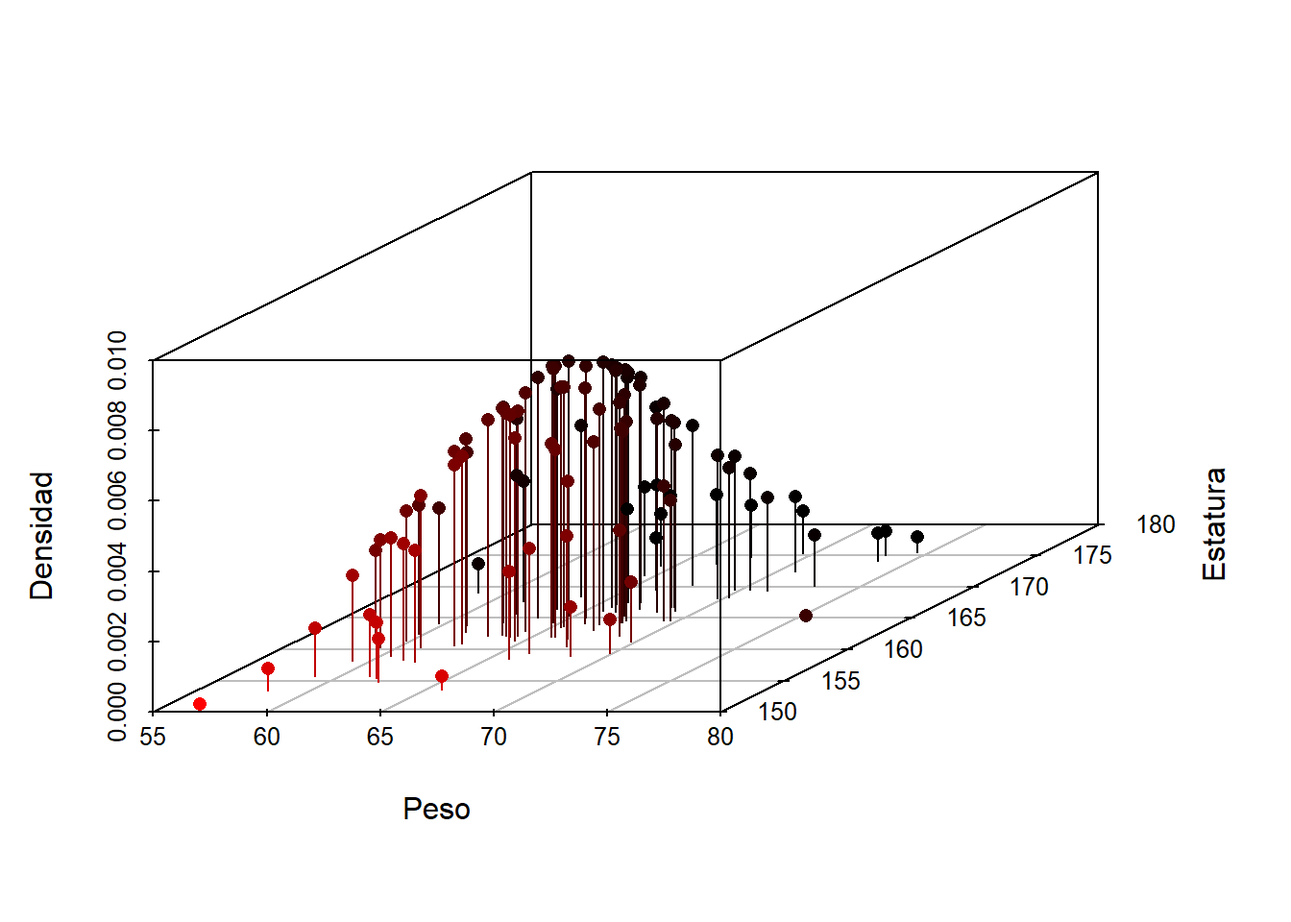
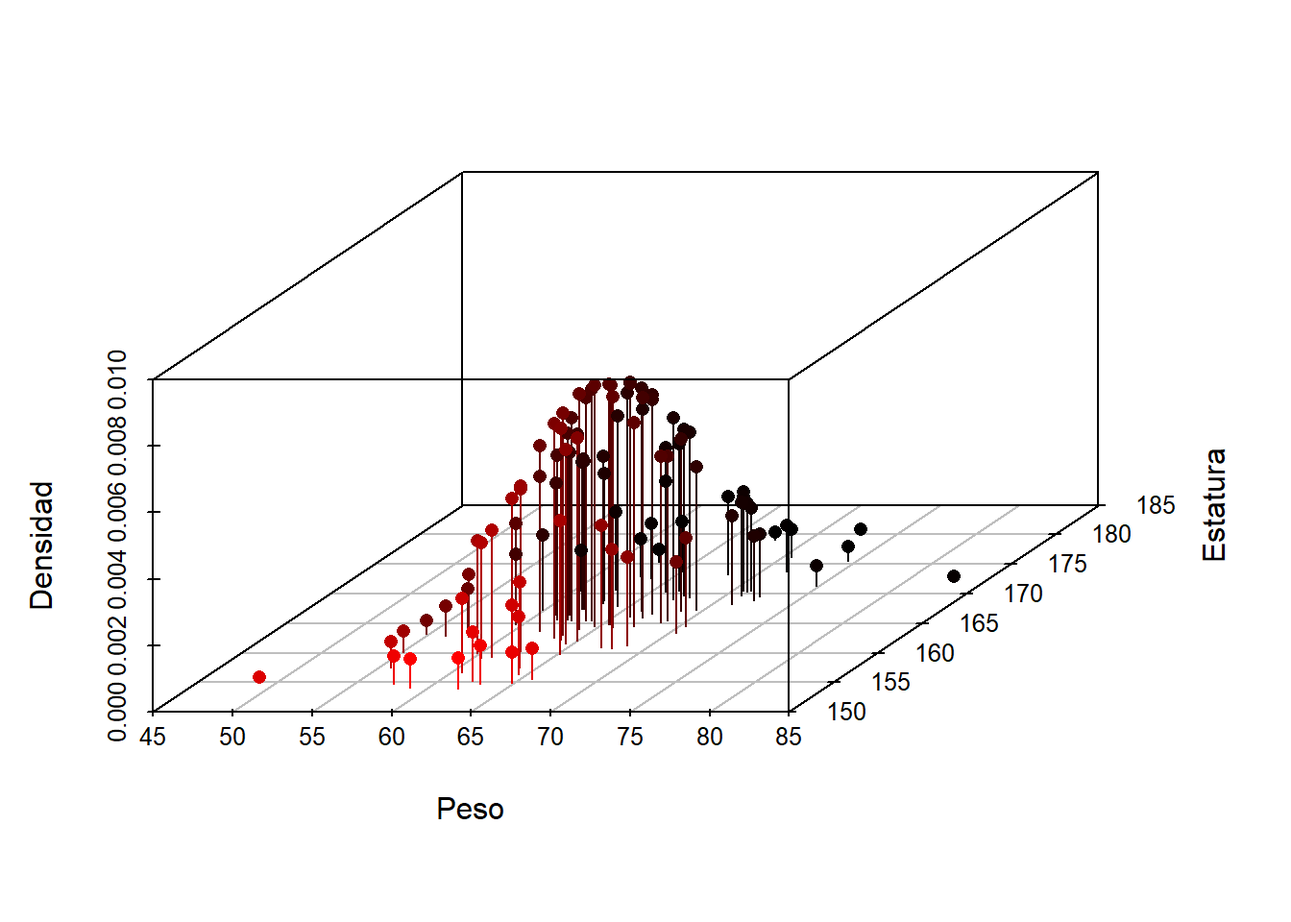
Cambios menores

diff --git a/docs/normalmulti.html b/docs/normalmulti.html
@@ -768,8 +768,8 @@ Figure 23.2: Diagrama de dispersión para datos simulados de una normal bivariad
 <span id="cb8-6"><a href="normalmulti.html#cb8-6" aria-hidden="true" tabindex="-1"></a><span class="fu">plot_ly</span>(<span class="at">x=</span><span class="sc">~</span>datos[,<span class="dv">1</span>], <span class="at">y=</span><span class="sc">~</span>datos[,<span class="dv">2</span>], <span class="at">z=</span><span class="sc">~</span>density, </span>
 <span id="cb8-7"><a href="normalmulti.html#cb8-7" aria-hidden="true" tabindex="-1"></a>        <span class="at">type =</span> <span class="st">&quot;scatter3d&quot;</span>, <span class="at">color=</span>density)</span></code></pre></div>
 <div class="figure"><span style="display:block;" id="fig:simul2plotly"></span>
-<div id="htmlwidget-cf63b91c2a0518847878" style="width:672px;height:480px;" class="plotly html-widget"></div>
-<script type="application/json" data-for="htmlwidget-cf63b91c2a0518847878">{"x":{"visdat":{"15d0212323f4":["function () ","plotlyVisDat"]},"cur_data":"15d0212323f4","attrs":{"15d0212323f4":{"x":{},"y":{},"z":{},"color":[0.00198100215959531,0.00670324887609876,0.00078005849572772,0.0018177303693015,0.00534005196180616,0.00574118791975782,0.000162365809118524,0.00253490173595076,0.00628735440714785,0.00533103126848121,0.00492430012189535,0.00721226821728599,0.00686071020138313,0.00258954527110739,0.00681778315201375,0.00329138515371219,0.00715461926622162,0.00300240943108903,0.00670540751871609,0.00263786574973771,0.00147378610840702,0.00624825061862073,0.00296744647453109,0.00471945465550465,0.00367446763278653,0.00552832598214821,0.00137605212401851,0.00240749977310082,0.00317262549887943,0.0063655176914136,0.00513061350043037,0.00575400696762089,0.00342994741290418,0.0053244488658585,0.00535147014550437,0.00610634124419729,0.00635402441198085,0.00486644973069654,0.00305716041142624,0.00721450025958614,0.00335617731582844,0.00139525806682305,0.00715212918947712,0.00407386795787336,0.00706802832436903,0.00095393666378019,0.00341709925683737,0.00684056613631894,0.00365158572805313,0.00452066507996122,0.00145754230385146,0.00542308293049627,0.00326405439788434,0.0068848920999572,0.00380446753913564,0.00173327276681416,0.00609943962144527,0.00249750462544003,0.00548784904492543,0.00313358949655201,0.00370856010798385,0.00630343121608872,0.00148492936484452,0.00123179069341149,0.00642670199560877,0.00547309689281027,0.00651261726277757,0.000676419059105887,0.00721492988591587,0.00530748865118242,0.00247804790569399,0.000424426468394256,0.00682822780424697,0.00518333306250636,0.00668396001127169,0.00449645435950209,0.00615828853417076,0.00614093553383821,0.00169766962606344,0.00552490235975436,0.00677619729483128,0.00383179421176395,0.00548270125480508,0.0063339549016584,0.00330798130218028,0.00365683675209853,0.00207721592629136,0.00633849075848144,0.00563122014535252,0.00523915545642096,0.00432949431411798,0.000387739645496554,0.000422196445200629,0.000625462309122013,0.00211391551255857,0.000167013365564234,0.000810740312215874,0.00640228099712518,0.00157810491731917,0.00119291316654186],"alpha_stroke":1,"sizes":[10,100],"spans":[1,20],"type":"scatter3d"}},"layout":{"margin":{"b":40,"l":60,"t":25,"r":10},"scene":{"xaxis":{"title":"datos[, 1]"},"yaxis":{"title":"datos[, 2]"},"zaxis":{"title":"density"}},"hovermode":"closest","showlegend":false,"legend":{"yanchor":"top","y":0.5}},"source":"A","config":{"modeBarButtonsToAdd":["hoverclosest","hovercompare"],"showSendToCloud":false},"data":[{"x":[66.7371029656621,66.3718375754789,73.5209034359552,63.571688317461,61.859387456843,68.0559451668225,56.8579908797405,64.9524880648963,67.2587512359582,66.0898738973799,61.1491839775695,64.7549036736386,66.522757143659,58.5780219300118,65.5458527894391,70.4403296324467,64.3264391660642,68.8372622452488,65.8656967992985,71.3094094728843,64.38531800285,63.6323433118068,66.3840006713154,69.0465786861524,70.2108414496008,62.3358192789831,59.01324171067,59.20649072531,62.1196684371505,64.2993256670651,62.3786187280264,64.586381285543,69.727476966435,62.5654861289274,67.1292613117694,62.4541195695742,67.3150345019273,63.6411464808334,59.2811135306909,64.6879745448268,60.4889046549966,68.466597449957,65.7293184705557,69.7899594506641,65.8426501895912,69.9078561011232,61.491039032236,63.6081233554419,59.7635413259953,67.50208310771,72.9905256337031,67.7547971917928,59.6880353206941,65.8930146586525,69.7831908330159,61.3652421608137,66.8956059868539,64.5049341850829,68.2855911120649,67.392509292699,59.8700743885103,64.0316495588598,67.6623735609949,62.2756340173505,63.5343729843606,61.6417323897504,66.1910506181664,73.3661164105365,64.4389462739771,68.5448398832069,65.9878851004146,63.0693638650789,65.4382555212085,66.3394342294782,66.1973967438476,66.8076126410104,63.0248390473822,67.2849602226235,69.8539320142073,67.652290540567,64.2354517087391,69.3761544348027,65.9136681281488,65.9749356859293,61.4348214195236,61.4503926180873,65.1271177773179,63.818052616092,67.7272594403095,68.617854827757,61.1163201137562,65.7349287980984,74.4849651529783,58.2039779642437,70.8202242317854,75.7688095907935,58.7088284618683,66.7598306375536,61.8322585802741,69.5559866162477],"y":[173.61548965567,167.037921744678,174.157201994372,172.212393985024,161.546486910319,167.052945557945,150.386439093724,172.078642564637,165.315350814559,161.932043942147,163.83920470383,165.433502563371,165.946335895877,161.199812965832,163.647209834463,169.582347733346,165.11537330304,162.136535357725,167.204687221548,169.420180712597,173.380021026533,166.490061893228,159.386229029316,166.176805454535,168.292485059092,165.686852302972,155.638968627684,158.241911014705,157.957181643231,162.208567281992,160.646392207221,161.454373627322,164.561517033811,160.862104391998,163.128121341127,164.378567154615,166.48713936694,168.379191657164,160.324154267767,164.315065953704,158.959629524961,158.863636618642,165.002331381666,168.163478919154,166.179197919715,159.425895864281,167.69945726008,165.015171933161,162.520762169281,170.284254228964,170.122768319634,164.287046755726,164.218711242533,166.781537617691,169.537218800266,155.729799190895,164.012976847472,171.862063863537,166.061219011047,160.530558589139,161.317419250433,162.07499638852,174.686755759151,154.774558812999,162.36455377273,162.825811757878,167.54820964178,175.073637530992,164.674598869892,166.758626192189,158.444153044261,175.410835910464,163.571934718373,169.487628436241,164.134799316633,161.622162418648,162.099657672803,164.898297099831,161.229968123697,164.282265248739,162.941717143456,164.621874606761,161.962921892142,167.876495497072,158.294731988259,167.271424406074,172.815837679231,162.134541611736,164.672104039557,166.81394518736,160.260518690419,153.581790716324,175.565170075892,153.375169507214,172.515570505862,164.450605784092,169.135186813564,167.514688154407,155.436913797878,175.362568794833],"z":[0.00198100215959531,0.00670324887609876,0.00078005849572772,0.0018177303693015,0.00534005196180616,0.00574118791975782,0.000162365809118524,0.00253490173595076,0.00628735440714785,0.00533103126848121,0.00492430012189535,0.00721226821728599,0.00686071020138313,0.00258954527110739,0.00681778315201375,0.00329138515371219,0.00715461926622162,0.00300240943108903,0.00670540751871609,0.00263786574973771,0.00147378610840702,0.00624825061862073,0.00296744647453109,0.00471945465550465,0.00367446763278653,0.00552832598214821,0.00137605212401851,0.00240749977310082,0.00317262549887943,0.0063655176914136,0.00513061350043037,0.00575400696762089,0.00342994741290418,0.0053244488658585,0.00535147014550437,0.00610634124419729,0.00635402441198085,0.00486644973069654,0.00305716041142624,0.00721450025958614,0.00335617731582844,0.00139525806682305,0.00715212918947712,0.00407386795787336,0.00706802832436903,0.00095393666378019,0.00341709925683737,0.00684056613631894,0.00365158572805313,0.00452066507996122,0.00145754230385146,0.00542308293049627,0.00326405439788434,0.0068848920999572,0.00380446753913564,0.00173327276681416,0.00609943962144527,0.00249750462544003,0.00548784904492543,0.00313358949655201,0.00370856010798385,0.00630343121608872,0.00148492936484452,0.00123179069341149,0.00642670199560877,0.00547309689281027,0.00651261726277757,0.000676419059105887,0.00721492988591587,0.00530748865118242,0.00247804790569399,0.000424426468394256,0.00682822780424697,0.00518333306250636,0.00668396001127169,0.00449645435950209,0.00615828853417076,0.00614093553383821,0.00169766962606344,0.00552490235975436,0.00677619729483128,0.00383179421176395,0.00548270125480508,0.0063339549016584,0.00330798130218028,0.00365683675209853,0.00207721592629136,0.00633849075848144,0.00563122014535252,0.00523915545642096,0.00432949431411798,0.000387739645496554,0.000422196445200629,0.000625462309122013,0.00211391551255857,0.000167013365564234,0.000810740312215874,0.00640228099712518,0.00157810491731917,0.00119291316654186],"type":"scatter3d","mode":"markers","marker":{"colorbar":{"title":"","ticklen":2},"cmin":0.000162365809118524,"cmax":0.00721492988591587,"colorscale":[["0","rgba(68,1,84,1)"],["0.0416666666666667","rgba(70,19,97,1)"],["0.0833333333333333","rgba(72,32,111,1)"],["0.125","rgba(71,45,122,1)"],["0.166666666666667","rgba(68,58,128,1)"],["0.208333333333333","rgba(64,70,135,1)"],["0.25","rgba(60,82,138,1)"],["0.291666666666667","rgba(56,93,140,1)"],["0.333333333333333","rgba(49,104,142,1)"],["0.375","rgba(46,114,142,1)"],["0.416666666666667","rgba(42,123,142,1)"],["0.458333333333333","rgba(38,133,141,1)"],["0.5","rgba(37,144,140,1)"],["0.541666666666667","rgba(33,154,138,1)"],["0.583333333333333","rgba(39,164,133,1)"],["0.625","rgba(47,174,127,1)"],["0.666666666666667","rgba(53,183,121,1)"],["0.708333333333333","rgba(79,191,110,1)"],["0.75","rgba(98,199,98,1)"],["0.791666666666667","rgba(119,207,85,1)"],["0.833333333333333","rgba(147,214,70,1)"],["0.875","rgba(172,220,52,1)"],["0.916666666666667","rgba(199,225,42,1)"],["0.958333333333333","rgba(226,228,40,1)"],["1","rgba(253,231,37,1)"]],"showscale":false,"color":[0.00198100215959531,0.00670324887609876,0.00078005849572772,0.0018177303693015,0.00534005196180616,0.00574118791975782,0.000162365809118524,0.00253490173595076,0.00628735440714785,0.00533103126848121,0.00492430012189535,0.00721226821728599,0.00686071020138313,0.00258954527110739,0.00681778315201375,0.00329138515371219,0.00715461926622162,0.00300240943108903,0.00670540751871609,0.00263786574973771,0.00147378610840702,0.00624825061862073,0.00296744647453109,0.00471945465550465,0.00367446763278653,0.00552832598214821,0.00137605212401851,0.00240749977310082,0.00317262549887943,0.0063655176914136,0.00513061350043037,0.00575400696762089,0.00342994741290418,0.0053244488658585,0.00535147014550437,0.00610634124419729,0.00635402441198085,0.00486644973069654,0.00305716041142624,0.00721450025958614,0.00335617731582844,0.00139525806682305,0.00715212918947712,0.00407386795787336,0.00706802832436903,0.00095393666378019,0.00341709925683737,0.00684056613631894,0.00365158572805313,0.00452066507996122,0.00145754230385146,0.00542308293049627,0.00326405439788434,0.0068848920999572,0.00380446753913564,0.00173327276681416,0.00609943962144527,0.00249750462544003,0.00548784904492543,0.00313358949655201,0.00370856010798385,0.00630343121608872,0.00148492936484452,0.00123179069341149,0.00642670199560877,0.00547309689281027,0.00651261726277757,0.000676419059105887,0.00721492988591587,0.00530748865118242,0.00247804790569399,0.000424426468394256,0.00682822780424697,0.00518333306250636,0.00668396001127169,0.00449645435950209,0.00615828853417076,0.00614093553383821,0.00169766962606344,0.00552490235975436,0.00677619729483128,0.00383179421176395,0.00548270125480508,0.0063339549016584,0.00330798130218028,0.00365683675209853,0.00207721592629136,0.00633849075848144,0.00563122014535252,0.00523915545642096,0.00432949431411798,0.000387739645496554,0.000422196445200629,0.000625462309122013,0.00211391551255857,0.000167013365564234,0.000810740312215874,0.00640228099712518,0.00157810491731917,0.00119291316654186],"line":{"colorbar":{"title":"","ticklen":2},"cmin":0.000162365809118524,"cmax":0.00721492988591587,"colorscale":[["0","rgba(68,1,84,1)"],["0.0416666666666667","rgba(70,19,97,1)"],["0.0833333333333333","rgba(72,32,111,1)"],["0.125","rgba(71,45,122,1)"],["0.166666666666667","rgba(68,58,128,1)"],["0.208333333333333","rgba(64,70,135,1)"],["0.25","rgba(60,82,138,1)"],["0.291666666666667","rgba(56,93,140,1)"],["0.333333333333333","rgba(49,104,142,1)"],["0.375","rgba(46,114,142,1)"],["0.416666666666667","rgba(42,123,142,1)"],["0.458333333333333","rgba(38,133,141,1)"],["0.5","rgba(37,144,140,1)"],["0.541666666666667","rgba(33,154,138,1)"],["0.583333333333333","rgba(39,164,133,1)"],["0.625","rgba(47,174,127,1)"],["0.666666666666667","rgba(53,183,121,1)"],["0.708333333333333","rgba(79,191,110,1)"],["0.75","rgba(98,199,98,1)"],["0.791666666666667","rgba(119,207,85,1)"],["0.833333333333333","rgba(147,214,70,1)"],["0.875","rgba(172,220,52,1)"],["0.916666666666667","rgba(199,225,42,1)"],["0.958333333333333","rgba(226,228,40,1)"],["1","rgba(253,231,37,1)"]],"showscale":false,"color":[0.00198100215959531,0.00670324887609876,0.00078005849572772,0.0018177303693015,0.00534005196180616,0.00574118791975782,0.000162365809118524,0.00253490173595076,0.00628735440714785,0.00533103126848121,0.00492430012189535,0.00721226821728599,0.00686071020138313,0.00258954527110739,0.00681778315201375,0.00329138515371219,0.00715461926622162,0.00300240943108903,0.00670540751871609,0.00263786574973771,0.00147378610840702,0.00624825061862073,0.00296744647453109,0.00471945465550465,0.00367446763278653,0.00552832598214821,0.00137605212401851,0.00240749977310082,0.00317262549887943,0.0063655176914136,0.00513061350043037,0.00575400696762089,0.00342994741290418,0.0053244488658585,0.00535147014550437,0.00610634124419729,0.00635402441198085,0.00486644973069654,0.00305716041142624,0.00721450025958614,0.00335617731582844,0.00139525806682305,0.00715212918947712,0.00407386795787336,0.00706802832436903,0.00095393666378019,0.00341709925683737,0.00684056613631894,0.00365158572805313,0.00452066507996122,0.00145754230385146,0.00542308293049627,0.00326405439788434,0.0068848920999572,0.00380446753913564,0.00173327276681416,0.00609943962144527,0.00249750462544003,0.00548784904492543,0.00313358949655201,0.00370856010798385,0.00630343121608872,0.00148492936484452,0.00123179069341149,0.00642670199560877,0.00547309689281027,0.00651261726277757,0.000676419059105887,0.00721492988591587,0.00530748865118242,0.00247804790569399,0.000424426468394256,0.00682822780424697,0.00518333306250636,0.00668396001127169,0.00449645435950209,0.00615828853417076,0.00614093553383821,0.00169766962606344,0.00552490235975436,0.00677619729483128,0.00383179421176395,0.00548270125480508,0.0063339549016584,0.00330798130218028,0.00365683675209853,0.00207721592629136,0.00633849075848144,0.00563122014535252,0.00523915545642096,0.00432949431411798,0.000387739645496554,0.000422196445200629,0.000625462309122013,0.00211391551255857,0.000167013365564234,0.000810740312215874,0.00640228099712518,0.00157810491731917,0.00119291316654186]}},"frame":null},{"x":[56.8579908797405,75.7688095907935],"y":[150.386439093724,175.565170075892],"type":"scatter3d","mode":"markers","opacity":0,"hoverinfo":"none","showlegend":false,"marker":{"colorbar":{"title":"","ticklen":2,"len":0.5,"lenmode":"fraction","y":1,"yanchor":"top"},"cmin":0.000162365809118524,"cmax":0.00721492988591587,"colorscale":[["0","rgba(68,1,84,1)"],["0.0416666666666667","rgba(70,19,97,1)"],["0.0833333333333333","rgba(72,32,111,1)"],["0.125","rgba(71,45,122,1)"],["0.166666666666667","rgba(68,58,128,1)"],["0.208333333333333","rgba(64,70,135,1)"],["0.25","rgba(60,82,138,1)"],["0.291666666666667","rgba(56,93,140,1)"],["0.333333333333333","rgba(49,104,142,1)"],["0.375","rgba(46,114,142,1)"],["0.416666666666667","rgba(42,123,142,1)"],["0.458333333333333","rgba(38,133,141,1)"],["0.5","rgba(37,144,140,1)"],["0.541666666666667","rgba(33,154,138,1)"],["0.583333333333333","rgba(39,164,133,1)"],["0.625","rgba(47,174,127,1)"],["0.666666666666667","rgba(53,183,121,1)"],["0.708333333333333","rgba(79,191,110,1)"],["0.75","rgba(98,199,98,1)"],["0.791666666666667","rgba(119,207,85,1)"],["0.833333333333333","rgba(147,214,70,1)"],["0.875","rgba(172,220,52,1)"],["0.916666666666667","rgba(199,225,42,1)"],["0.958333333333333","rgba(226,228,40,1)"],["1","rgba(253,231,37,1)"]],"showscale":true,"color":[0.000162365809118524,0.00721492988591587],"line":{"color":"rgba(255,127,14,1)"}},"z":[0.000162365809118524,0.00721492988591587],"frame":null}],"highlight":{"on":"plotly_click","persistent":false,"dynamic":false,"selectize":false,"opacityDim":0.2,"selected":{"opacity":1},"debounce":0},"shinyEvents":["plotly_hover","plotly_click","plotly_selected","plotly_relayout","plotly_brushed","plotly_brushing","plotly_clickannotation","plotly_doubleclick","plotly_deselect","plotly_afterplot","plotly_sunburstclick"],"base_url":"https://plot.ly"},"evals":[],"jsHooks":[]}</script>
+<div id="htmlwidget-1f42dd01526141be2681" style="width:672px;height:480px;" class="plotly html-widget"></div>
+<script type="application/json" data-for="htmlwidget-1f42dd01526141be2681">{"x":{"visdat":{"d3a08527a5":["function () ","plotlyVisDat"]},"cur_data":"d3a08527a5","attrs":{"d3a08527a5":{"x":{},"y":{},"z":{},"color":[0.00546217021270723,0.00607789726198904,0.00279256246986514,0.00636587228711366,0.00724039765463859,0.0060953742014343,0.00440137740500976,0.000930734596809839,0.00250471393457,0.00494270208624596,0.00305693709202033,0.00112488689888025,0.00643824792055218,0.000911584786146963,0.00499927213402682,0.00444029874808686,0.000408635591592065,0.000622817733455849,0.00274032307937844,0.00429551144557462,0.00089242843000141,0.00495337684693452,0.00557823444113667,0.00569892609584463,0.00462984307451341,0.00691635923475687,0.00346462913545307,0.00669526253349871,0.000866307476015216,0.00432564775931662,0.00202897515323981,0.00662020423442792,0.00146962355015631,0.0014051398708879,0.00720991809757628,0.00091620390394632,0.00339417181880318,0.00668546228093002,0.00400552769609694,0.00114302619120504,0.0071883895568109,0.00515342599756363,0.00650104388565882,0.0025681279466696,0.00544994331197537,0.00583349368283567,0.00702787703015439,0.00707543871011018,0.000378705654213693,0.00379757792719819,0.00192964987160271,0.000419199771132879,0.00648577265709436,0.00558771478255134,0.00173412247533849,0.00488866702692737,0.000617484448475716,0.00367423725149674,0.00125580569258257,0.00266569557812275,0.0015203690094742,0.00579835050911775,0.00489447838870921,2.83323091515863e-06,0.00267024209362055,0.000832756549511984,0.00232969666735585,0.00188647857690451,0.000822662499509336,0.00697653130874853,0.0016456908959496,0.00499796206993036,0.00396127721851957,0.00188966632575818,0.00443405234707083,0.00381877326857832,0.00296990458800643,0.00442114386818082,0.00703874961861027,0.00283797761568941,0.000776158363359123,7.56336383967331e-06,0.0061030211438635,0.00234896590761446,0.00643883311542329,0.00264911106195833,0.00222108981176104,0.000138027937595548,0.00188454537553339,0.00214014196416957,0.00121556122625113,0.00224870534182202,0.00494704988190611,0.00265313345227694,0.0031007065606604,0.00441684692023712,0.000230105507338286,0.00492598222366563,0.00449824162383372,0.00670452152440197],"alpha_stroke":1,"sizes":[10,100],"spans":[1,20],"type":"scatter3d"}},"layout":{"margin":{"b":40,"l":60,"t":25,"r":10},"scene":{"xaxis":{"title":"datos[, 1]"},"yaxis":{"title":"datos[, 2]"},"zaxis":{"title":"density"}},"hovermode":"closest","showlegend":false,"legend":{"yanchor":"top","y":0.5}},"source":"A","config":{"modeBarButtonsToAdd":["hoverclosest","hovercompare"],"showSendToCloud":false},"data":[{"x":[62.6051417381313,64.9788884952472,71.0550535677377,63.889072876523,64.6720500792113,62.7897696862499,61.0003204417405,65.7612342549474,71.27221827892,61.7369219646259,59.6468448155617,62.8737781374451,63.2074651131474,61.9800073601354,68.5197034113676,62.3832158309889,54.8412278583719,55.1009064930199,69.9518332585455,69.5823139018073,56.1963821260203,67.9573106554606,61.7666588842054,64.275145406791,62.0057869690378,65.9262889230262,60.5753156470894,63.6072098726036,58.8870562124352,65.8985812284817,63.8622852681351,66.932238612818,62.1944402810293,71.7036231941335,65.4514481608617,64.8116498695622,59.8988125424784,63.5817590546412,65.1707493020582,62.9604748775575,65.5400930808248,68.7111261033005,65.1557111139717,63.9273601221439,67.1232108383264,64.5305766501999,66.0771001856085,64.0323811924809,62.7039291371797,62.8852504897437,72.2840140205643,74.5207366265766,66.875418160857,62.3855161410153,64.4268432744224,62.4494756396561,74.9042876416899,67.1267002094492,57.1133491609679,71.329182287784,65.0778998404695,65.4904768624984,62.103903150994,82.6447337623402,68.559050634474,70.6106573195405,68.2605603997374,57.8116937762845,57.4709904665575,64.0358313039925,63.7424504942664,67.5177701754475,61.2332341702647,72.3304001253368,63.105735540303,61.1943402880488,67.8581375358977,62.3119135678024,66.0405539167729,70.7484567742991,55.8065063716811,48.4248415930235,67.1650470196022,62.6514896317033,67.1712849603183,71.0858735239271,60.6544852014415,72.8035317297338,58.8761308575596,70.5091564222669,60.5787058953426,59.9382993780394,62.3152712091935,70.4580525793262,65.2828057519706,66.7027083146066,67.9863420420199,68.702669418479,62.3698380001005,66.2134014706296],"y":[166.298172643394,162.05730572228,169.722695312717,162.176194136461,164.537390116225,165.398161961492,165.012450341626,155.530335799251,170.435636042321,165.602044396048,164.738104726385,172.99487087034,162.605181074932,153.929038774671,165.170948554649,167.488798391804,163.196770400738,160.163914472169,171.892995492511,167.250685594611,162.928519188451,169.440529917698,163.647920004616,167.924949872357,160.053012250519,164.337212680653,159.092279727036,165.51258982508,154.077388479497,170.384567598926,156.654530655456,165.898506681499,155.261369216232,173.679832795397,164.840299654681,154.937266533736,159.884197064712,162.947421611592,159.752528848595,154.732196316315,164.844891289162,167.092331942239,167.39624412005,157.447364846606,169.068987875325,161.53341447362,166.088578283416,164.030564025005,175.366111807466,168.912664399721,168.892941271074,175.540447516964,167.157860623086,165.667757685803,156.422044770503,160.245862891618,171.259106177004,160.946241105425,163.767303597781,168.163953329181,173.700778724711,168.519237252917,166.393899793371,172.913823863309,161.228560615665,176.216337076267,173.258070902924,162.706347412887,154.817191270109,165.404309897887,172.631766280931,169.605213993013,166.407738967871,169.48336377584,168.362684673592,159.231444434496,160.817669385503,167.418159337266,166.086909339349,170.506805933657,157.502339955248,155.825657001249,164.523145309917,170.602136309075,166.621888955253,170.351417996905,156.762074602548,180.107180592065,166.078553304677,163.313673875996,170.459804885431,167.269580829218,160.389467883222,164.449043409044,171.537869127659,170.454367104829,179.081573984821,165.539867468697,167.390641955043,167.126322843818],"z":[0.00546217021270723,0.00607789726198904,0.00279256246986514,0.00636587228711366,0.00724039765463859,0.0060953742014343,0.00440137740500976,0.000930734596809839,0.00250471393457,0.00494270208624596,0.00305693709202033,0.00112488689888025,0.00643824792055218,0.000911584786146963,0.00499927213402682,0.00444029874808686,0.000408635591592065,0.000622817733455849,0.00274032307937844,0.00429551144557462,0.00089242843000141,0.00495337684693452,0.00557823444113667,0.00569892609584463,0.00462984307451341,0.00691635923475687,0.00346462913545307,0.00669526253349871,0.000866307476015216,0.00432564775931662,0.00202897515323981,0.00662020423442792,0.00146962355015631,0.0014051398708879,0.00720991809757628,0.00091620390394632,0.00339417181880318,0.00668546228093002,0.00400552769609694,0.00114302619120504,0.0071883895568109,0.00515342599756363,0.00650104388565882,0.0025681279466696,0.00544994331197537,0.00583349368283567,0.00702787703015439,0.00707543871011018,0.000378705654213693,0.00379757792719819,0.00192964987160271,0.000419199771132879,0.00648577265709436,0.00558771478255134,0.00173412247533849,0.00488866702692737,0.000617484448475716,0.00367423725149674,0.00125580569258257,0.00266569557812275,0.0015203690094742,0.00579835050911775,0.00489447838870921,2.83323091515863e-06,0.00267024209362055,0.000832756549511984,0.00232969666735585,0.00188647857690451,0.000822662499509336,0.00697653130874853,0.0016456908959496,0.00499796206993036,0.00396127721851957,0.00188966632575818,0.00443405234707083,0.00381877326857832,0.00296990458800643,0.00442114386818082,0.00703874961861027,0.00283797761568941,0.000776158363359123,7.56336383967331e-06,0.0061030211438635,0.00234896590761446,0.00643883311542329,0.00264911106195833,0.00222108981176104,0.000138027937595548,0.00188454537553339,0.00214014196416957,0.00121556122625113,0.00224870534182202,0.00494704988190611,0.00265313345227694,0.0031007065606604,0.00441684692023712,0.000230105507338286,0.00492598222366563,0.00449824162383372,0.00670452152440197],"type":"scatter3d","mode":"markers","marker":{"colorbar":{"title":"","ticklen":2},"cmin":2.83323091515863e-06,"cmax":0.00724039765463859,"colorscale":[["0","rgba(68,1,84,1)"],["0.0416666666666667","rgba(70,19,97,1)"],["0.0833333333333333","rgba(72,32,111,1)"],["0.125","rgba(71,45,122,1)"],["0.166666666666667","rgba(68,58,128,1)"],["0.208333333333333","rgba(64,70,135,1)"],["0.25","rgba(60,82,138,1)"],["0.291666666666667","rgba(56,93,140,1)"],["0.333333333333333","rgba(49,104,142,1)"],["0.375","rgba(46,114,142,1)"],["0.416666666666667","rgba(42,123,142,1)"],["0.458333333333333","rgba(38,133,141,1)"],["0.5","rgba(37,144,140,1)"],["0.541666666666667","rgba(33,154,138,1)"],["0.583333333333333","rgba(39,164,133,1)"],["0.625","rgba(47,174,127,1)"],["0.666666666666667","rgba(53,183,121,1)"],["0.708333333333333","rgba(79,191,110,1)"],["0.75","rgba(98,199,98,1)"],["0.791666666666667","rgba(119,207,85,1)"],["0.833333333333333","rgba(147,214,70,1)"],["0.875","rgba(172,220,52,1)"],["0.916666666666667","rgba(199,225,42,1)"],["0.958333333333333","rgba(226,228,40,1)"],["1","rgba(253,231,37,1)"]],"showscale":false,"color":[0.00546217021270723,0.00607789726198904,0.00279256246986514,0.00636587228711366,0.00724039765463859,0.0060953742014343,0.00440137740500976,0.000930734596809839,0.00250471393457,0.00494270208624596,0.00305693709202033,0.00112488689888025,0.00643824792055218,0.000911584786146963,0.00499927213402682,0.00444029874808686,0.000408635591592065,0.000622817733455849,0.00274032307937844,0.00429551144557462,0.00089242843000141,0.00495337684693452,0.00557823444113667,0.00569892609584463,0.00462984307451341,0.00691635923475687,0.00346462913545307,0.00669526253349871,0.000866307476015216,0.00432564775931662,0.00202897515323981,0.00662020423442792,0.00146962355015631,0.0014051398708879,0.00720991809757628,0.00091620390394632,0.00339417181880318,0.00668546228093002,0.00400552769609694,0.00114302619120504,0.0071883895568109,0.00515342599756363,0.00650104388565882,0.0025681279466696,0.00544994331197537,0.00583349368283567,0.00702787703015439,0.00707543871011018,0.000378705654213693,0.00379757792719819,0.00192964987160271,0.000419199771132879,0.00648577265709436,0.00558771478255134,0.00173412247533849,0.00488866702692737,0.000617484448475716,0.00367423725149674,0.00125580569258257,0.00266569557812275,0.0015203690094742,0.00579835050911775,0.00489447838870921,2.83323091515863e-06,0.00267024209362055,0.000832756549511984,0.00232969666735585,0.00188647857690451,0.000822662499509336,0.00697653130874853,0.0016456908959496,0.00499796206993036,0.00396127721851957,0.00188966632575818,0.00443405234707083,0.00381877326857832,0.00296990458800643,0.00442114386818082,0.00703874961861027,0.00283797761568941,0.000776158363359123,7.56336383967331e-06,0.0061030211438635,0.00234896590761446,0.00643883311542329,0.00264911106195833,0.00222108981176104,0.000138027937595548,0.00188454537553339,0.00214014196416957,0.00121556122625113,0.00224870534182202,0.00494704988190611,0.00265313345227694,0.0031007065606604,0.00441684692023712,0.000230105507338286,0.00492598222366563,0.00449824162383372,0.00670452152440197],"line":{"colorbar":{"title":"","ticklen":2},"cmin":2.83323091515863e-06,"cmax":0.00724039765463859,"colorscale":[["0","rgba(68,1,84,1)"],["0.0416666666666667","rgba(70,19,97,1)"],["0.0833333333333333","rgba(72,32,111,1)"],["0.125","rgba(71,45,122,1)"],["0.166666666666667","rgba(68,58,128,1)"],["0.208333333333333","rgba(64,70,135,1)"],["0.25","rgba(60,82,138,1)"],["0.291666666666667","rgba(56,93,140,1)"],["0.333333333333333","rgba(49,104,142,1)"],["0.375","rgba(46,114,142,1)"],["0.416666666666667","rgba(42,123,142,1)"],["0.458333333333333","rgba(38,133,141,1)"],["0.5","rgba(37,144,140,1)"],["0.541666666666667","rgba(33,154,138,1)"],["0.583333333333333","rgba(39,164,133,1)"],["0.625","rgba(47,174,127,1)"],["0.666666666666667","rgba(53,183,121,1)"],["0.708333333333333","rgba(79,191,110,1)"],["0.75","rgba(98,199,98,1)"],["0.791666666666667","rgba(119,207,85,1)"],["0.833333333333333","rgba(147,214,70,1)"],["0.875","rgba(172,220,52,1)"],["0.916666666666667","rgba(199,225,42,1)"],["0.958333333333333","rgba(226,228,40,1)"],["1","rgba(253,231,37,1)"]],"showscale":false,"color":[0.00546217021270723,0.00607789726198904,0.00279256246986514,0.00636587228711366,0.00724039765463859,0.0060953742014343,0.00440137740500976,0.000930734596809839,0.00250471393457,0.00494270208624596,0.00305693709202033,0.00112488689888025,0.00643824792055218,0.000911584786146963,0.00499927213402682,0.00444029874808686,0.000408635591592065,0.000622817733455849,0.00274032307937844,0.00429551144557462,0.00089242843000141,0.00495337684693452,0.00557823444113667,0.00569892609584463,0.00462984307451341,0.00691635923475687,0.00346462913545307,0.00669526253349871,0.000866307476015216,0.00432564775931662,0.00202897515323981,0.00662020423442792,0.00146962355015631,0.0014051398708879,0.00720991809757628,0.00091620390394632,0.00339417181880318,0.00668546228093002,0.00400552769609694,0.00114302619120504,0.0071883895568109,0.00515342599756363,0.00650104388565882,0.0025681279466696,0.00544994331197537,0.00583349368283567,0.00702787703015439,0.00707543871011018,0.000378705654213693,0.00379757792719819,0.00192964987160271,0.000419199771132879,0.00648577265709436,0.00558771478255134,0.00173412247533849,0.00488866702692737,0.000617484448475716,0.00367423725149674,0.00125580569258257,0.00266569557812275,0.0015203690094742,0.00579835050911775,0.00489447838870921,2.83323091515863e-06,0.00267024209362055,0.000832756549511984,0.00232969666735585,0.00188647857690451,0.000822662499509336,0.00697653130874853,0.0016456908959496,0.00499796206993036,0.00396127721851957,0.00188966632575818,0.00443405234707083,0.00381877326857832,0.00296990458800643,0.00442114386818082,0.00703874961861027,0.00283797761568941,0.000776158363359123,7.56336383967331e-06,0.0061030211438635,0.00234896590761446,0.00643883311542329,0.00264911106195833,0.00222108981176104,0.000138027937595548,0.00188454537553339,0.00214014196416957,0.00121556122625113,0.00224870534182202,0.00494704988190611,0.00265313345227694,0.0031007065606604,0.00441684692023712,0.000230105507338286,0.00492598222366563,0.00449824162383372,0.00670452152440197]}},"frame":null},{"x":[48.4248415930235,82.6447337623402],"y":[153.929038774671,180.107180592065],"type":"scatter3d","mode":"markers","opacity":0,"hoverinfo":"none","showlegend":false,"marker":{"colorbar":{"title":"","ticklen":2,"len":0.5,"lenmode":"fraction","y":1,"yanchor":"top"},"cmin":2.83323091515863e-06,"cmax":0.00724039765463859,"colorscale":[["0","rgba(68,1,84,1)"],["0.0416666666666667","rgba(70,19,97,1)"],["0.0833333333333333","rgba(72,32,111,1)"],["0.125","rgba(71,45,122,1)"],["0.166666666666667","rgba(68,58,128,1)"],["0.208333333333333","rgba(64,70,135,1)"],["0.25","rgba(60,82,138,1)"],["0.291666666666667","rgba(56,93,140,1)"],["0.333333333333333","rgba(49,104,142,1)"],["0.375","rgba(46,114,142,1)"],["0.416666666666667","rgba(42,123,142,1)"],["0.458333333333333","rgba(38,133,141,1)"],["0.5","rgba(37,144,140,1)"],["0.541666666666667","rgba(33,154,138,1)"],["0.583333333333333","rgba(39,164,133,1)"],["0.625","rgba(47,174,127,1)"],["0.666666666666667","rgba(53,183,121,1)"],["0.708333333333333","rgba(79,191,110,1)"],["0.75","rgba(98,199,98,1)"],["0.791666666666667","rgba(119,207,85,1)"],["0.833333333333333","rgba(147,214,70,1)"],["0.875","rgba(172,220,52,1)"],["0.916666666666667","rgba(199,225,42,1)"],["0.958333333333333","rgba(226,228,40,1)"],["1","rgba(253,231,37,1)"]],"showscale":true,"color":[2.83323091515863e-06,0.00724039765463859],"line":{"color":"rgba(255,127,14,1)"}},"z":[2.83323091515863e-06,0.00724039765463859],"frame":null}],"highlight":{"on":"plotly_click","persistent":false,"dynamic":false,"selectize":false,"opacityDim":0.2,"selected":{"opacity":1},"debounce":0},"shinyEvents":["plotly_hover","plotly_click","plotly_selected","plotly_relayout","plotly_brushed","plotly_brushing","plotly_clickannotation","plotly_doubleclick","plotly_deselect","plotly_afterplot","plotly_sunburstclick"],"base_url":"https://plot.ly"},"evals":[],"jsHooks":[]}</script>
 <p class="caption">
 Figure 23.3: Densidad para los datos simulados de una normal bivariada usando plotly.
 </p>
@@ -947,7 +947,7 @@ D^2 = (\mathbf{x}-\boldsymbol{\mu})^\top\boldsymbol{\Sigma}^{-1}(\mathbf{x}-\bol
 \]</span>
 Los elipsoides están centrandos en <span class="math inline">\(\boldsymbol{\mu}\)</span> y tienen ejes <span class="math inline">\(\pm c \sqrt{\lambda_i} \boldsymbol{e}_i\)</span>. El valor de <span class="math inline">\(c^2\)</span> se obtiene como el cuantil <span class="math inline">\(D^2 \sim \chi_p\)</span> de manera que la cola a izquierda tenga un valor de cierto porcentaje (85%, 90%, 93%, 95%, …).</p>
 <p align="center">
-<img src="images/elipse_confianza.png" width="500">
+<img src="images/elipse_confianza.png" width="700">
 </p>
 <div id="ejemplo-87" class="section level3 unnumbered hasAnchor">
 <h3>Ejemplo<a href="normalmulti.html#ejemplo-87" class="anchor-section" aria-label="Anchor link to header"></a></h3>
@@ -981,9 +981,9 @@ Los elipsoides están centrandos en <span class="math inline">\(\boldsymbol{\mu}
 <h3>Ejemplo<a href="normalmulti.html#ejemplo-88" class="anchor-section" aria-label="Anchor link to header"></a></h3>
 <p>Con las características de la distribución bivariada anterior:</p>
 <ul>
-<li>Simule 10 observaciones de la distribución anterior y haga un diagrama de dispersión.</li>
+<li>Simule 10 observaciones y haga un diagrama de dispersión.</li>
 <li>Construya una elipse de confianza del 70%.</li>
-<li>Revise si 5 observaciones quedan fuera de la elipse.</li>
+<li>Revise si 3 observaciones quedan fuera de la elipse.</li>
 <li>¿Cuál es el valor de distancia de Mahalanobis para determinar si una observación está fuera de la elipse.</li>
 </ul>
 <p><strong>Solución</strong></p>
@@ -1190,9 +1190,19 @@ Los elipsoides están centrandos en <span class="math inline">\(\boldsymbol{\mu}
 </div>
 <div id="distribución-wishart" class="section level2 hasAnchor" number="23.8">
 <h2><span class="header-section-number">23.8</span> Distribución Wishart<a href="normalmulti.html#distribución-wishart" class="anchor-section" aria-label="Anchor link to header"></a></h2>
-<p>En estadística univariada, la distribución <span class="math inline">\(\chi^2\)</span> juega un papel importante en la inferencia sobre <span class="math inline">\(\sigma^2\)</span> en una <span class="math inline">\(N(\mu, \sigma^2)\)</span>. La distribución de Wishart es una generalización multivariada de la distribución univariada <span class="math inline">\(\chi^2\)</span> y desempeña un papel análogo en las estadísticas multivariadas.</p>
+<p>En estadística univariada, la distribución <span class="math inline">\(\chi^2\)</span> juega un papel importante en la inferencia de <span class="math inline">\(\sigma^2\)</span> cuando se tiene una población <span class="math inline">\(N(\mu, \sigma^2)\)</span>. De un teorema se sabe que</p>
+<p><span class="math display">\[
+\frac{(n-1) S^2}{\sigma^2} \sim \chi^2_{n-1},
+\]</span></p>
+<p>siendo <span class="math inline">\(S^2=\frac{1}{n-1}\sum_{i=1}^{n}(X_i-\bar{X})^2\)</span>.</p>
+<p>De forma análoga, la distribución Wishart <span class="math inline">\(W\)</span> sirve para explicar la distribución de <span class="math inline">\(\mathbf{S}\)</span> cuando se tienen observaciones de una <span class="math inline">\(N_p(\boldsymbol{\mu}, \boldsymbol{\Sigma})\)</span>. De un teorema se sabe que</p>
+<p><span class="math display">\[
+(n-1) \mathbf{S} \sim W_p(\boldsymbol{\Sigma}, n),
+\]</span></p>
+<p>siendo <span class="math inline">\(\mathbf{S}=\frac{1}{n-1}\sum_{i=1}^{n}(\mathbf{x}_i-\bar{\mathbf{x}}_i) (\mathbf{x}_i-\bar{\mathbf{x}}_i)^\top\)</span>.</p>
 <p>En esta sección se presenta la distribución Wishart y se muestra que para las variables aleatorias MVN, la matriz de covarianza de la muestra <span class="math inline">\(\mathbf S\)</span> tiene una distribución Wishart.</p>
-<p>Sea <span class="math inline">\(\mathbf x_1, \ldots, \mathbf x_n\)</span> una muestra aleatoria IID de <span class="math inline">\(N_p (\boldsymbol 0, \boldsymbol{\Sigma})\)</span>. Entonces se dice que <span class="math display">\[\mathbf M= \sum_{i=1}^n \mathbf x_i \mathbf x_i^\top \in \mathbb{R}^{p\times p}\]</span> tiene una distribución de Wishart con  (n) grados de libertad y matriz de escala <span class="math inline">\(\boldsymbol{\Sigma}\)</span>. Escribimos esto como <span class="math display">\[\mathbf M\sim W_p(\boldsymbol{\Sigma}, n)\]</span> y nos referimos a <span class="math inline">\(W_p(\mathbf I_p,n)\)</span> como una distribución estándar de Wishart.</p>
+<p>Sea <span class="math inline">\(\mathbf x_1, \ldots, \mathbf x_n\)</span> una muestra aleatoria IID de <span class="math inline">\(N_p (\boldsymbol 0, \boldsymbol{\Sigma})\)</span>. Entonces se dice que <span class="math display">\[\mathbf M= \sum_{i=1}^n \mathbf x_i \mathbf x_i^\top \in \mathbb{R}^{p\times p}\]</span> tiene una distribución de Wishart con <span class="math inline">\(n\)</span> grados de libertad y matriz de escala <span class="math inline">\(\boldsymbol{\Sigma}\)</span>. Escribimos esto como <span class="math display">\[\mathbf M\sim W_p(\boldsymbol{\Sigma}, n)\]</span> y nos referimos a <span class="math inline">\(W_p(\mathbf I_p,n)\)</span> como una distribución estándar de Wishart.</p>
+<p>Para generar valores aleatorios de una distribución Wishart se puede usar las función <code>rWISHART</code>.</p>
 <div class="sourceCode" id="cb52"><pre class="sourceCode r"><code class="sourceCode r"><span id="cb52-1"><a href="normalmulti.html#cb52-1" aria-hidden="true" tabindex="-1"></a><span class="fu">require</span>(mixAK)</span>
 <span id="cb52-2"><a href="normalmulti.html#cb52-2" aria-hidden="true" tabindex="-1"></a>df <span class="ot">&lt;-</span> <span class="dv">2</span></span>
 <span id="cb52-3"><a href="normalmulti.html#cb52-3" aria-hidden="true" tabindex="-1"></a>S <span class="ot">&lt;-</span> <span class="fu">matrix</span>(<span class="fu">c</span>(<span class="dv">1</span>, <span class="dv">3</span>, </span>
@@ -1203,13 +1213,15 @@ Los elipsoides están centrandos en <span class="math inline">\(\boldsymbol{\mu}
 ## 1 1.760118 5.704247 18.491330
 ## 2 1.301754 1.355093  7.644143
 ## 3 2.866288 7.827009 21.382141</code></pre>
+<p>Si queremos conocer la densidad de las tres observaciones anteriores usamos lo siguiente.</p>
 <div class="sourceCode" id="cb54"><pre class="sourceCode r"><code class="sourceCode r"><span id="cb54-1"><a href="normalmulti.html#cb54-1" aria-hidden="true" tabindex="-1"></a><span class="fu">dWISHART</span>(M, <span class="at">df=</span>df, <span class="at">S=</span>S)</span></code></pre></div>
 <pre><code>## [1] 0.0884071408 0.0008949927 0.0290369731</code></pre>
+<p>Para verificar que cada componente es correcto hacemos lo siguiente.</p>
 <div class="sourceCode" id="cb56"><pre class="sourceCode r"><code class="sourceCode r"><span id="cb56-1"><a href="normalmulti.html#cb56-1" aria-hidden="true" tabindex="-1"></a>M2 <span class="ot">&lt;-</span> <span class="fu">rWISHART</span>(<span class="at">n=</span><span class="dv">1000</span>, <span class="at">df=</span>df, <span class="at">S=</span>S)</span>
 <span id="cb56-2"><a href="normalmulti.html#cb56-2" aria-hidden="true" tabindex="-1"></a><span class="fu">apply</span>(M2, <span class="dv">2</span>, mean) <span class="co"># should be close to df*S</span></span></code></pre></div>
 <pre><code>##     (1.1)     (2.1)     (2.2) 
 ##  1.916637  5.714386 24.726085</code></pre>
-<div class="sourceCode" id="cb58"><pre class="sourceCode r"><code class="sourceCode r"><span id="cb58-1"><a href="normalmulti.html#cb58-1" aria-hidden="true" tabindex="-1"></a>(df<span class="sc">*</span>S)[<span class="fu">lower.tri</span>(S, <span class="at">diag=</span><span class="cn">TRUE</span>)]</span></code></pre></div>
+<div class="sourceCode" id="cb58"><pre class="sourceCode r"><code class="sourceCode r"><span id="cb58-1"><a href="normalmulti.html#cb58-1" aria-hidden="true" tabindex="-1"></a>df<span class="sc">*</span>S[<span class="fu">lower.tri</span>(S, <span class="at">diag=</span><span class="cn">TRUE</span>)]</span></code></pre></div>
 <pre><code>## [1]  2  6 26</code></pre>
 </div>
 <div id="ejercicios-9" class="section level2 unnumbered hasAnchor">
